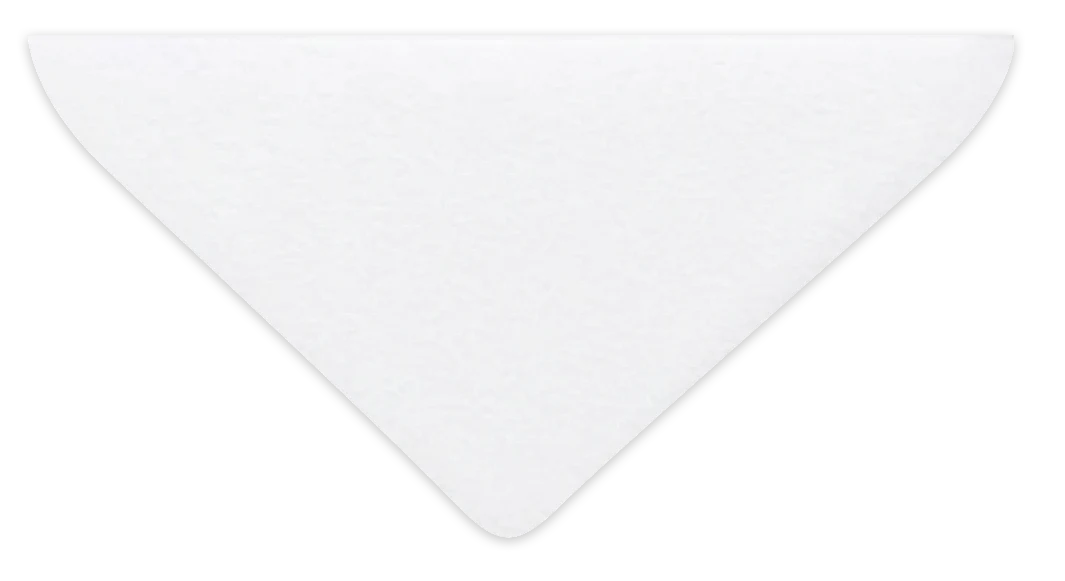
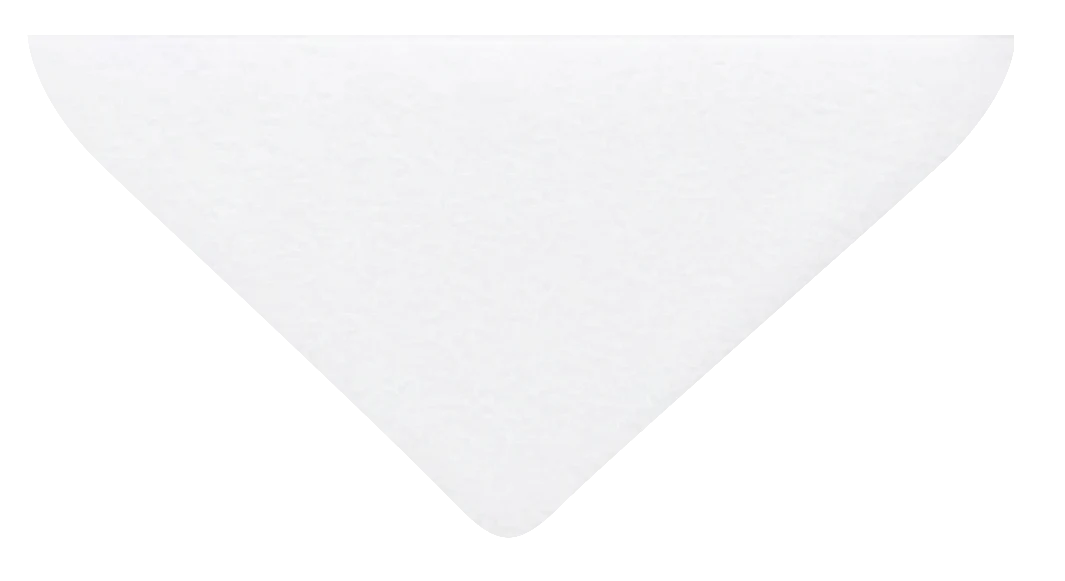
Mono Script cover: envelope without any shadow

diff --git a/app/templates/mono-script.css b/app/templates/mono-script.css
@@ -461,3 +461,6 @@ body:has(.inv[data-template="mono-script"]) .music-btn { color:#111; border-colo
 .inv[data-template="mono-script"] .env-flap-open { z-index:0; top:-65.8%; }
 .inv[data-template="mono-script"] .env-body { z-index:1; }
 .inv[data-template="mono-script"] .env-flap-closed { z-index:2; }
+
+/* ───────── 68. COVER envelope: no shadow at all (the pictures have none baked in, and nothing is added with CSS) ───────── */
+.inv[data-template="mono-script"] .env-art, .inv[data-template="mono-script"] .env-art img, .inv[data-template="mono-script"] .env-flap-closed, .inv[data-template="mono-script"] .cover-env { filter:none !important; box-shadow:none !important; }
